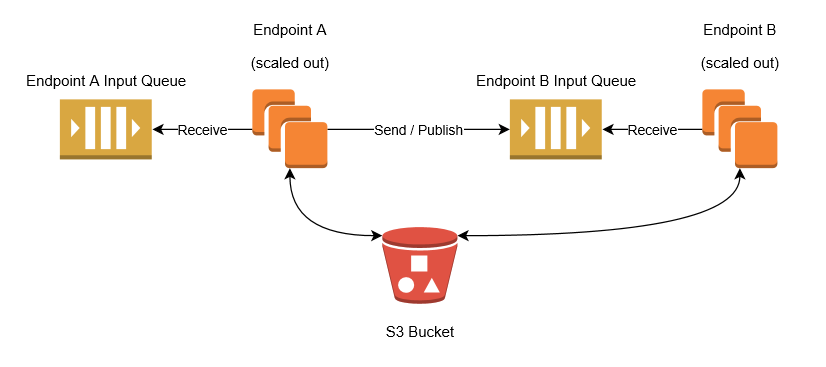
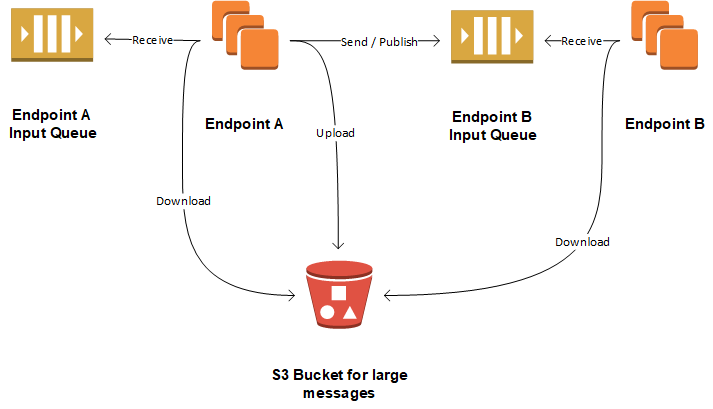
Replace diagram with visio Correct a spelling error Add missing word

diff --git a/transports/sqs/topology.md b/transports/sqs/topology.md
@@ -1,6 +1,6 @@
 ---
 title: Topology
-summary: Identify the physical components used by the transport and how the interact.
+summary: Identify the physical components used by the transport and how they interact.
 component: SQS
 reviewed: 2017-07-22
 tags:
@@ -21,7 +21,7 @@ Amazon SQS queues support competing consumers. When an endpoint scales out to mu
 
 ### Publish/Subscribe
 
-the Amazon SQS transport is a unicast-only transport and does not provide built-in support for publish-subscribe messaging. Publishing events to multiple endpoints is achieved with multiple transport-level sends to each destination. Subscriptions are created [persistence based and message driven mechanics](/nservicebus/messaging/publish-subscribe/#mechanics-persistence-based-message-driven).
+the Amazon SQS transport is a unicast-only transport and does not provide built-in support for publish-subscribe messaging. Publishing events to multiple endpoints is achieved with multiple transport-level sends to each destination. Subscriptions are created using [persistence based and message driven mechanics](/nservicebus/messaging/publish-subscribe/#mechanics-persistence-based-message-driven).
 
 
 ## S3
